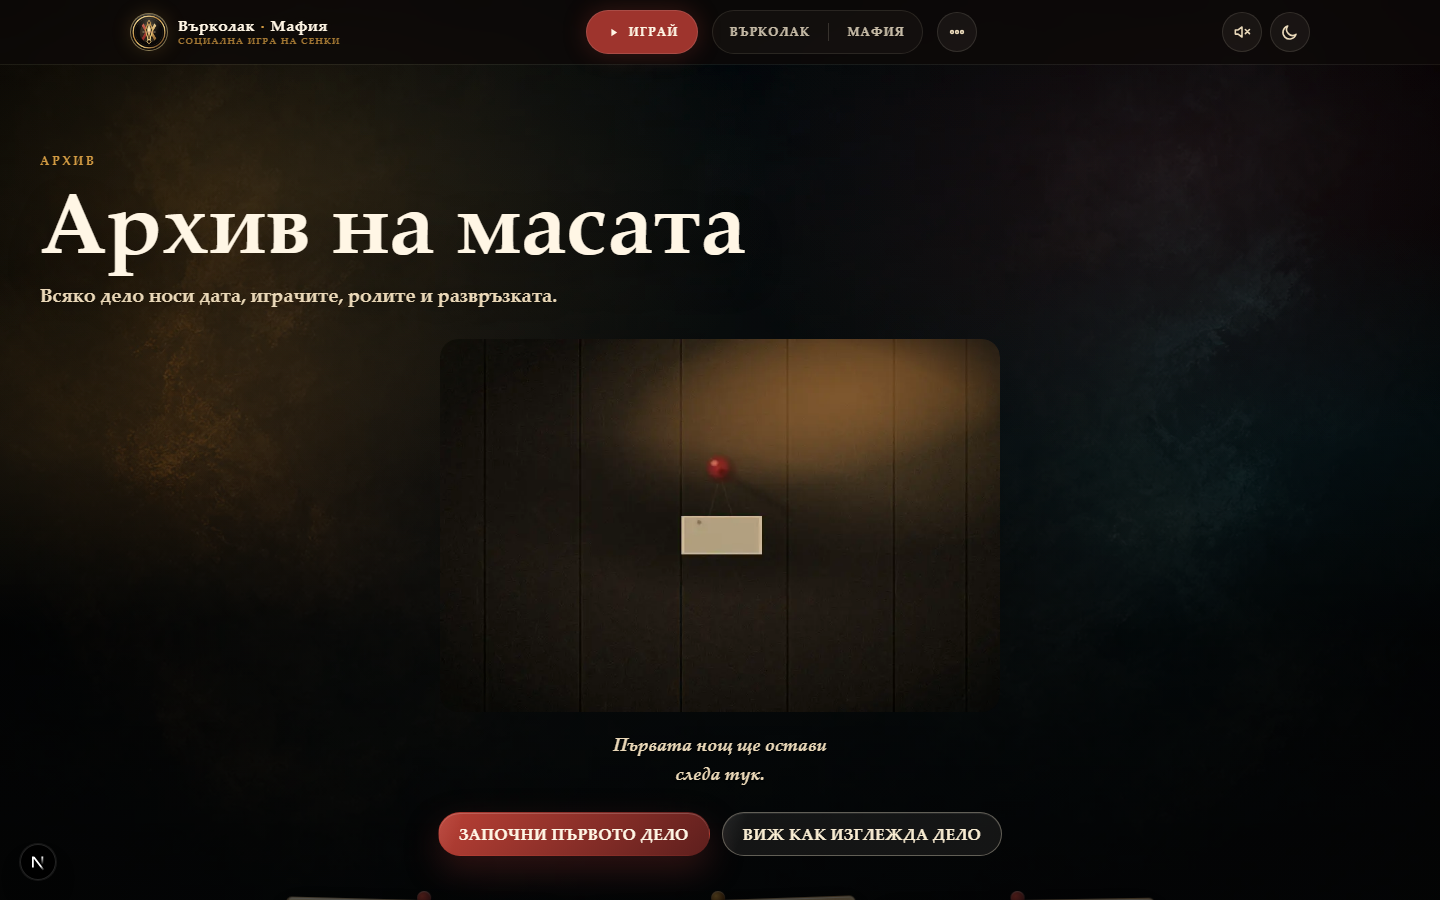
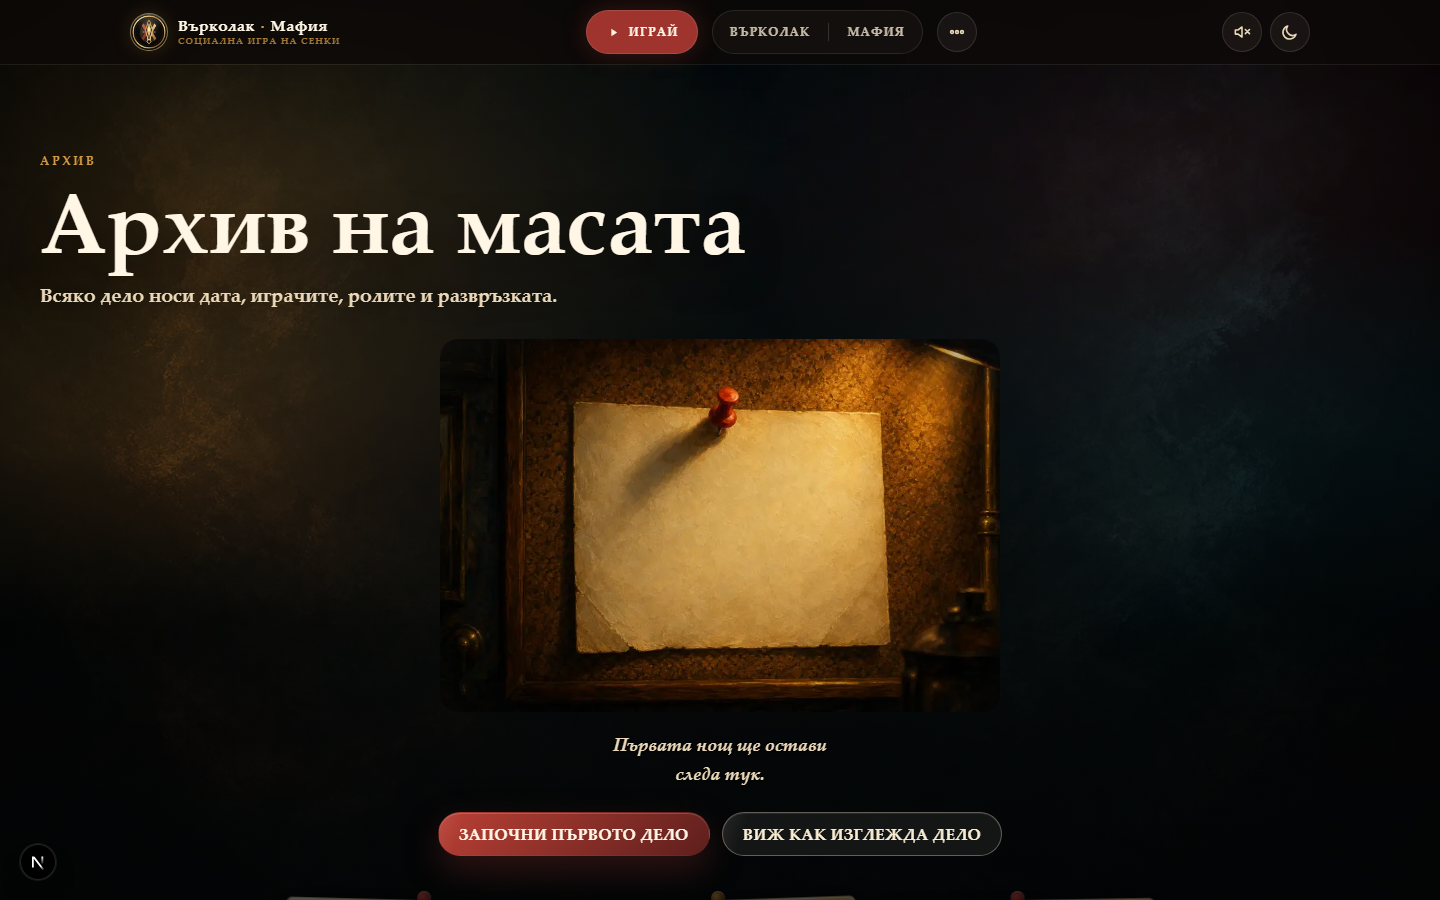
fix(history): bust evidence art cache

Changed region(s): [[0.3438, 0.3733, 0.7188, 0.7778]]

diff --git a/apps/web/app/globals.css b/apps/web/app/globals.css
@@ -4002,8 +4002,8 @@ html[data-theme="dark"] .landing-quickstart .quickstart-dim-glyph {
   background-image:
     linear-gradient(155deg, rgba(255, 250, 238, 0.55), rgba(238, 222, 196, 0.35)),
     image-set(
-      url("/game-art/textures/case-file-paper.webp") type("image/webp"),
-      url("/game-art/textures/case-file-paper.png") type("image/png")
+      url("/game-art/textures/case-file-paper-v2.webp") type("image/webp"),
+      url("/game-art/textures/case-file-paper-v2.png") type("image/png")
     );
   background-position: center, center;
   background-size: cover, cover;

diff --git a/apps/web/components/history/EvidenceWallEmpty.tsx b/apps/web/components/history/EvidenceWallEmpty.tsx
@@ -7,7 +7,7 @@ export function EvidenceWallEmpty() {
     <section className="evidence-empty">
       <figure className="evidence-empty-figure">
         <Image
-          src="/game-art/history-empty-hero.webp"
+          src="/game-art/history-empty-hero-v2.webp"
           alt=""
           width={768}
           height={512}